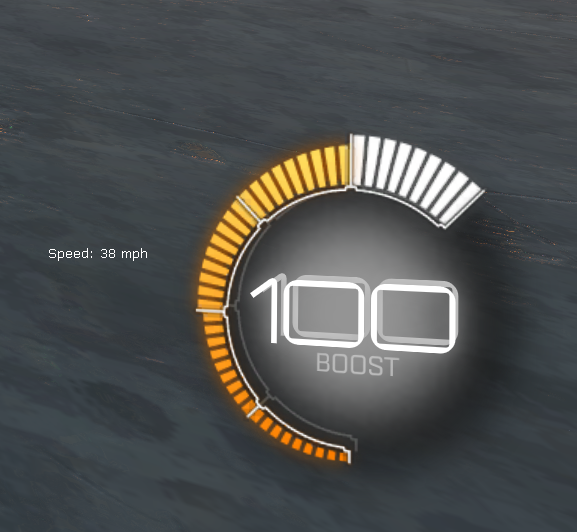
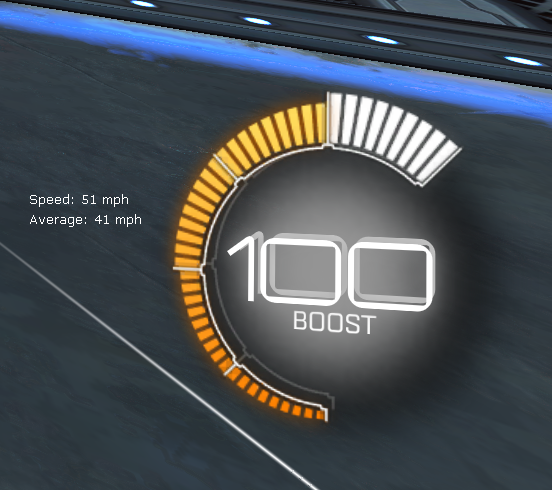
add running average to UI (#1)

diff --git a/Speedometer/Speedometer.cpp b/Speedometer/Speedometer.cpp
@@ -1,17 +1,13 @@
 #include "Speedometer.h"
+#include <sstream>
 #include "bakkesmod/wrappers/includes.h"
-#include "bakkesmod/wrappers/arraywrapper.h"
+/* #include "bakkesmod/wrappers/arraywrapper.h" */
 
 using namespace std;
 
 BAKKESMOD_PLUGIN(Speedometer, "Speedometer", "0.1", PLUGINTYPE_FREEPLAY)
 
 void Speedometer::onLoad() {
-    useMetric = make_shared<bool>(false);
-
-    cvarManager->registerCvar("Speedometer_Metric", "0", "Show speed in KPH or MPH")
-        .bindTo(useMetric);
-
     xPos = make_shared<int>(0);
     yPos = make_shared<int>(0);
     cvarManager->registerCvar("Speedometer_X_Position", "25", "X position",
@@ -21,29 +17,47 @@ void Speedometer::onLoad() {
 
     gameWrapper->HookEvent(
             "Function GameEvent_Soccar_TA.ReplayPlayback.BeginState",
-            [&](std::string eventName){ isInGoalReplay = true; });
+            [&](string eventName){ isInGoalReplay = true; });
     gameWrapper->HookEvent(
             "Function GameEvent_Soccar_TA.ReplayPlayback.EndState",
-            [&](std::string eventName){isInGoalReplay = false; });
+            [&](string eventName){ isInGoalReplay = false; });
+    gameWrapper->HookEvent(
+            "Function TAGame.GameEvent_TA.PostBeginPlay",
+            [&](string eventName) { samples = 0; });
 
     gameWrapper->RegisterDrawable(bind(&Speedometer::Render, this, std::placeholders::_1));
 }
 
 void Speedometer::onUnload() {}
 
-string toMph(float gameSpeed) {
-    return to_string((int) (gameSpeed / 44.704)) + " mph";
+int toMph(float gameSpeed) {
+    return (int) (gameSpeed / 44.704);
 }
 
-string toKph(float gameSpeed) {
-    return to_string((int) (gameSpeed * 0.036)) + " kph";
+int toKph(float gameSpeed) {
+    return (int) (gameSpeed * 0.036);
+}
+
+string speedOutput(float speed, bool metric) {
+    if (metric) {
+        return to_string(toKph(speed)) + " kph";
+    } else {
+        return to_string(toMph(speed)) + " mph";
+    }
 }
 
 // All draw methods live here.
-void Speedometer::drawText(CanvasWrapper canvas, string text) {
+void Speedometer::drawSpeed(CanvasWrapper canvas, string label, float speed, int index) {
+    const int offset = 20;
+    int y = *yPos + index * offset;
+
     canvas.SetColor(255, 255, 255, 255);
-    canvas.SetPosition(Vector2{*xPos, *yPos});
-    canvas.DrawString("Speed: " + text);
+    canvas.SetPosition(Vector2{*xPos, y});
+
+    string units = speedOutput(speed, gameWrapper->GetbMetric());
+    ostringstream output;
+    output << label << ": " << units;
+    canvas.DrawString(output.str());
 }
 
 // Get the car's speed, or -1 if we don't want to render.
@@ -73,8 +87,21 @@ bool validGameState(shared_ptr<GameWrapper> gameWrapper) {
     bool freeplay = gameWrapper->IsInFreeplay();
     bool training = gameWrapper->IsInCustomTraining();
     bool online = gameWrapper->IsInOnlineGame();
+    bool replay = gameWrapper->IsInReplay();
 
-    return freeplay || training || online;
+    return freeplay || training || online || replay;
+}
+
+void Speedometer::updateAverage(float carSpeed) {
+    samples += 1;
+
+    if (samples == 1) {
+        runningAverage = carSpeed;
+        return;
+    }
+
+    runningAverage -= runningAverage / samples;
+    runningAverage += carSpeed / samples;
 }
 
 void Speedometer::Render(CanvasWrapper canvas) {
@@ -87,11 +114,8 @@ void Speedometer::Render(CanvasWrapper canvas) {
         return;
     }
 
-    string text = toMph(carSpeed);
+    updateAverage(carSpeed);
 
-    if (*useMetric) {
-        text = toKph(carSpeed);
-    }
-
-    drawText(canvas, text);
+    drawSpeed(canvas, "Speed", carSpeed, 0);
+    drawSpeed(canvas, "Average", runningAverage, 1);
 }

diff --git a/Speedometer/Speedometer.h b/Speedometer/Speedometer.h
@@ -6,13 +6,15 @@ class Speedometer : public BakkesMod::Plugin::BakkesModPlugin
 {
 private:
     bool isInGoalReplay = false;
-    std::shared_ptr<bool> useMetric;
+    float runningAverage = 0;
+    int samples = 0;
     std::shared_ptr<int> xPos;
     std::shared_ptr<int> yPos;
 
-    float Speedometer::getCarSpeed();
-    void drawText(CanvasWrapper canvas, std::string text);
-    void Render(CanvasWrapper canvas);
+    float getCarSpeed();
+    void updateAverage(float);
+    void drawSpeed(CanvasWrapper, std::string, float, int);
+    void Render(CanvasWrapper);
 
 public:
     void onLoad() override;

diff --git a/README.md b/README.md
@@ -4,6 +4,11 @@ An unobtrusive speedometer for Rocket League to remind you to go fast. 🌠
 
 ![Preview](https://raw.githubusercontent.com/mtimkovich/SpeedometerPlugin/main/preview.png)
 
+## Features
+
+- Current car speed.
+- Per-game average car speed.
+
 ## Installation
 
 1. Download the [latest release][release].
@@ -38,6 +43,7 @@ cl /LD -I bakkesmodsdk/include/ bakkesmodsdk/lib/pluginsdk.lib Speedometer.cpp
 - [x] Adjustable position.
 - [x] Metric option.
 - [ ] Calculate per game metrics (mean and stdev) [#1][1].
+- [ ] Add average car speeds for each rank to the `README`.
 
 [release]: https://github.com/mtimkovich/SpeedometerPlugin/releases
 [compile]: https://github.com/mtimkovich/SpeedometerPlugin#compiling
